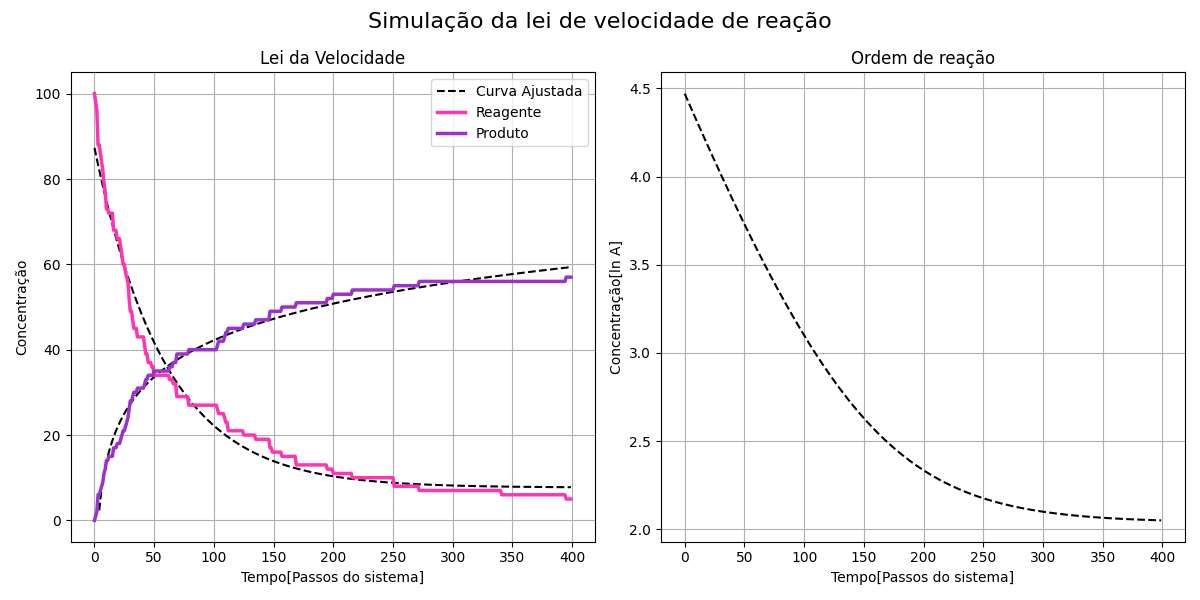
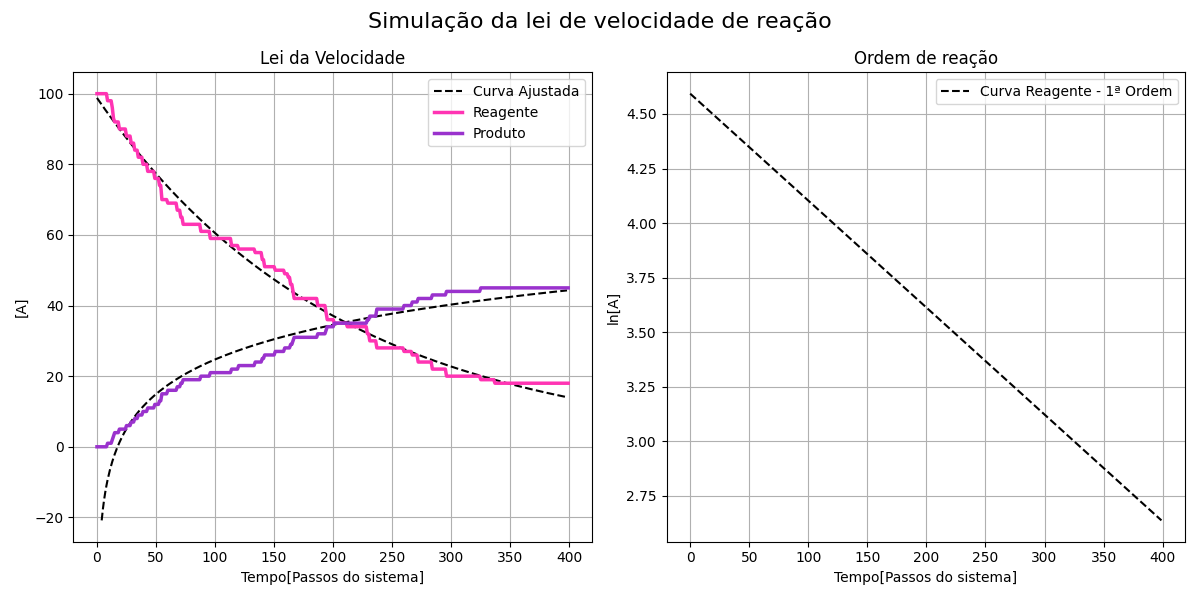
Desafio 2 - Finalizado

diff --git a/mayn.py b/mayn.py
@@ -158,7 +158,7 @@ numero_particulas = 100
 tamanho_caixa = 200
 massa = 1.2e-23
 raio = 1
-reatividade = 1
+reatividade = 0.4
 
 # Parâmetros simulação
 TFIM = 40
@@ -315,12 +315,12 @@ df = pd.DataFrame({"Passos": range(passinhos), "Partículas A": num_particulas_A
 print(df)
 
 # Exponencial
-def exp(x, a, b, c):
-    return a * np.exp(-b * x) + c
+def exp(t, a, k, c):
+    return a * np.exp(-k * t) 
 
 # Logarítmo
 def log(x, a, b, c):
-    return a * np.log(b * x) + c
+    return a * np.log(b * x) 
 
 # Chama as listas
 y_data = df['Partículas A']
@@ -328,14 +328,18 @@ x_data = df['Passos']
 x2_data = df.iloc[4:399, 0]
 y2_data = df.iloc[4:399, 2]
 
-print(x2_data)
-print(y2_data)
-print(b)
+popt, _ = curve_fit(exp, x_data, y_data)
+popti, _ = curve_fit(log, x2_data, y2_data)
 
+a_otimo = popt[0]
+k_otimo = popt[1]
+c_otimo = popt[2]
 
-popt, pcov = curve_fit(exp, x_data, y_data)
-popti, pcov = curve_fit(log, x2_data, y2_data)
+print(a_otimo)
+print(k_otimo)
+print(c_otimo)
 
+print(f'A lei de velocidade será de {k_otimo*(numero_particulas**1)}')
 # Cria a Figura 3 e a Figura 4
 fig, ((ax3,ax4)) = plt.subplots(1, 2, figsize=(12, 6))
 fig.suptitle("Simulação da lei de velocidade de reação", fontsize=16)
@@ -344,25 +348,25 @@ plt.tight_layout()
 # Cria os eixos da Figura 3
 ax3.set_title("Lei da Velocidade")
 ax3.set_xlabel("Tempo[Passos do sistema]")
-ax3.set_ylabel("Concentração")
+ax3.set_ylabel("[A]")
 ax3.plot(x_data, exp(x_data, *popt), ls='--', color='black', label="Curva Ajustada")
 ax3.plot(x2_data, log(x2_data, *popti), ls='--', color='black')
 ax3.grid('- -')
-ax3.plot(range(passinhos), num_particulas_A, linewidth=2.5, label='Reagente', color='#FF34B3')
-ax3.plot(range(passinhos), num_particulas_B, linewidth=2.5, label='Produto', color='#9A32CD')
+ax3.plot(range(passinhos), (num_particulas_A), linewidth=2.5, label='Reagente', color='#FF34B3')
+ax3.plot(range(passinhos), (num_particulas_B), linewidth=2.5, label='Produto', color='#9A32CD')
 ax3.legend()
 
 # Cria os eixos da Figura 4
 ax4.set_title("Ordem de reação")
 ax4.set_xlabel("Tempo[Passos do sistema]")
-ax4.set_ylabel("Concentração[ln A]")
+ax4.set_ylabel("ln[A]")
 ordem_reacao = exp(x_data, *popt)
 ordem_reacao_ln = np.log(ordem_reacao)
 
-ax4.plot(x_data, ordem_reacao_ln, ls='--', color='black', label="Curva Ajustada A")
+ax4.plot(x_data, ordem_reacao_ln, ls='--', color='black', label="Curva Reagente - 1ª Ordem")
 #ax4.plot(x2_data, log(x2_data, *popti), ls='--', color='black', label="Curva Ajustada B")
 ax4.grid('- -')
-
+plt.legend()
 plt.tight_layout()
 plt.savefig("Lei da Velocidade - Simulação")
 plt.show()
